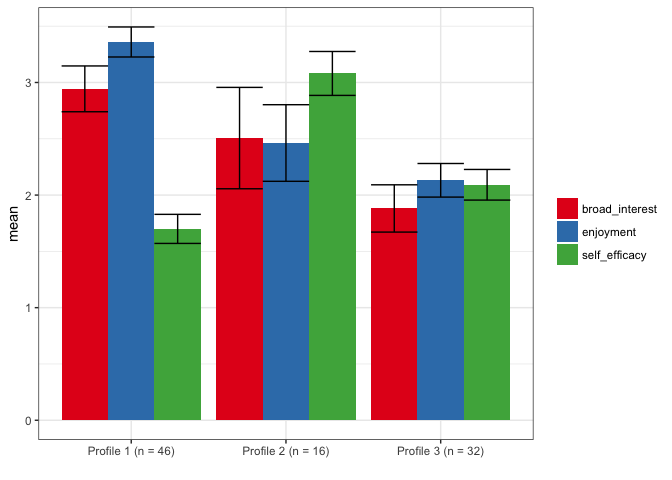
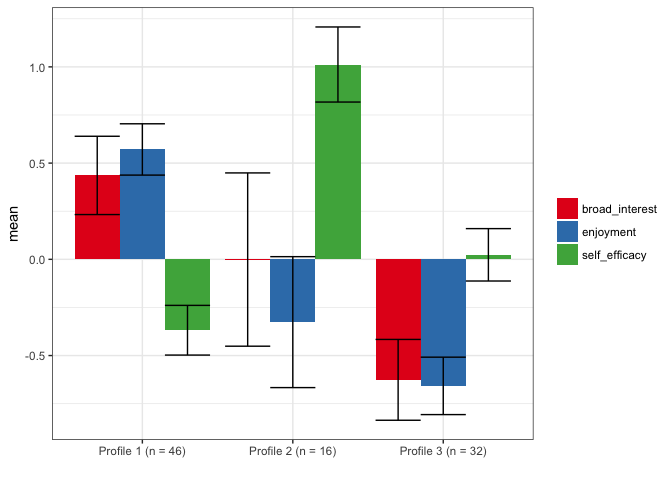
update docs for changing to estimate_profiles_lpa()

diff --git a/README.md b/README.md
@@ -44,7 +44,11 @@ m3 <- create_profiles_lpa(d, broad_interest, enjoyment, self_efficacy, n_profile
 #> SABIC is 582.951
 #> ICL is 681.845
 #> Entropy is 0.798
-plot_profiles_lpa(m3)
+plot_profiles_lpa(m3, to_center = TRUE)
 ```
 
 ![](README-unnamed-chunk-4-1.png)
+
+Please note that this project is released with a [Contributor Code of Conduct](CONDUCT.md).
+
+By participating in this project you agree to abide by its terms.
